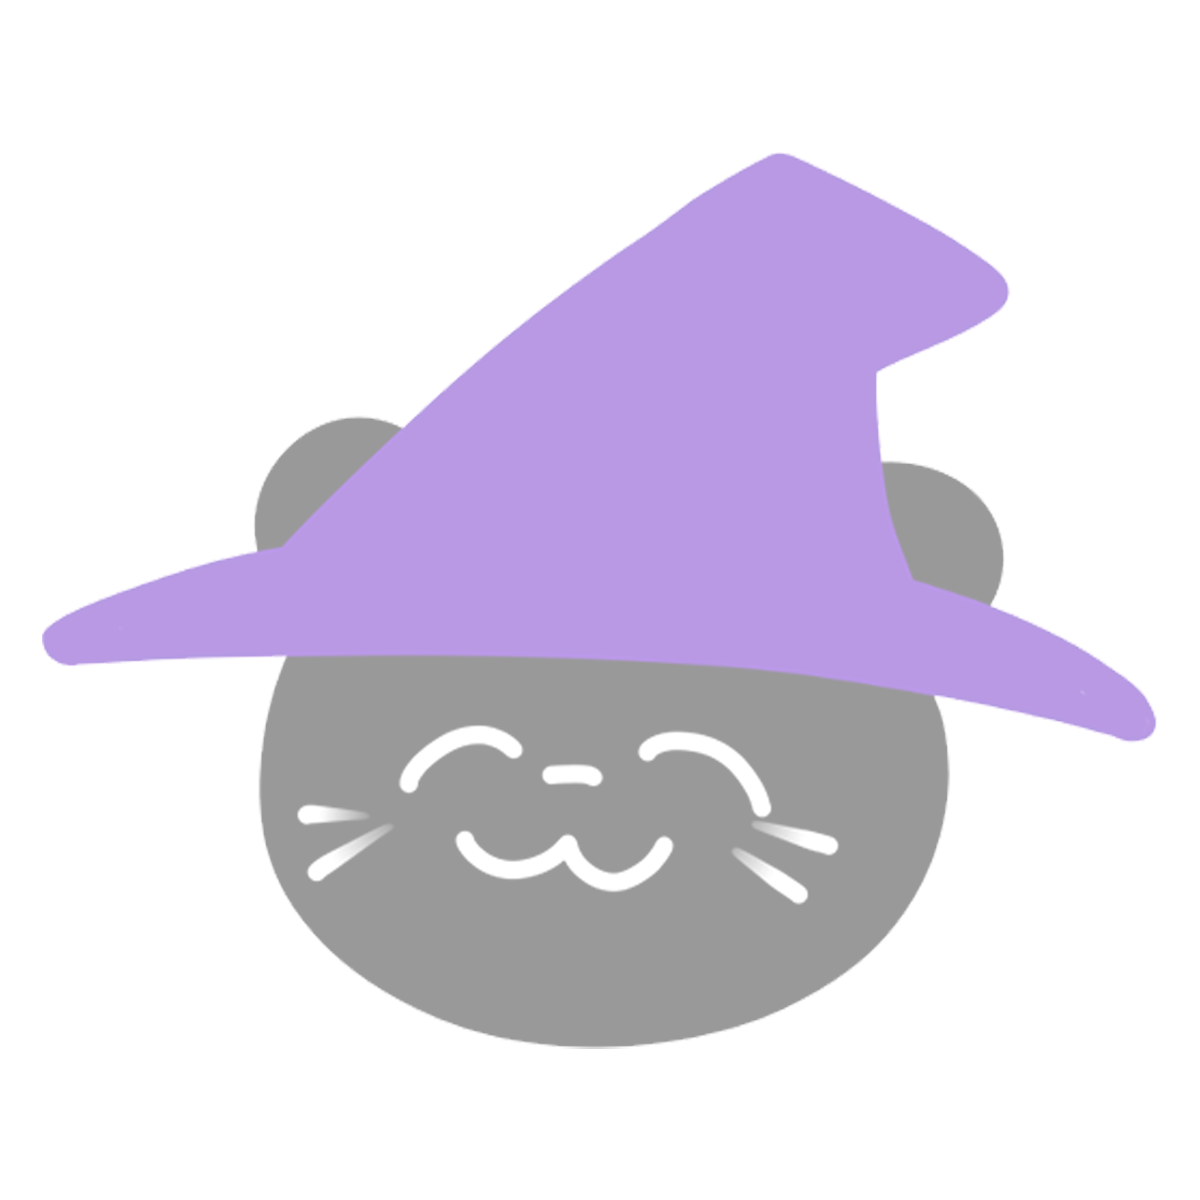
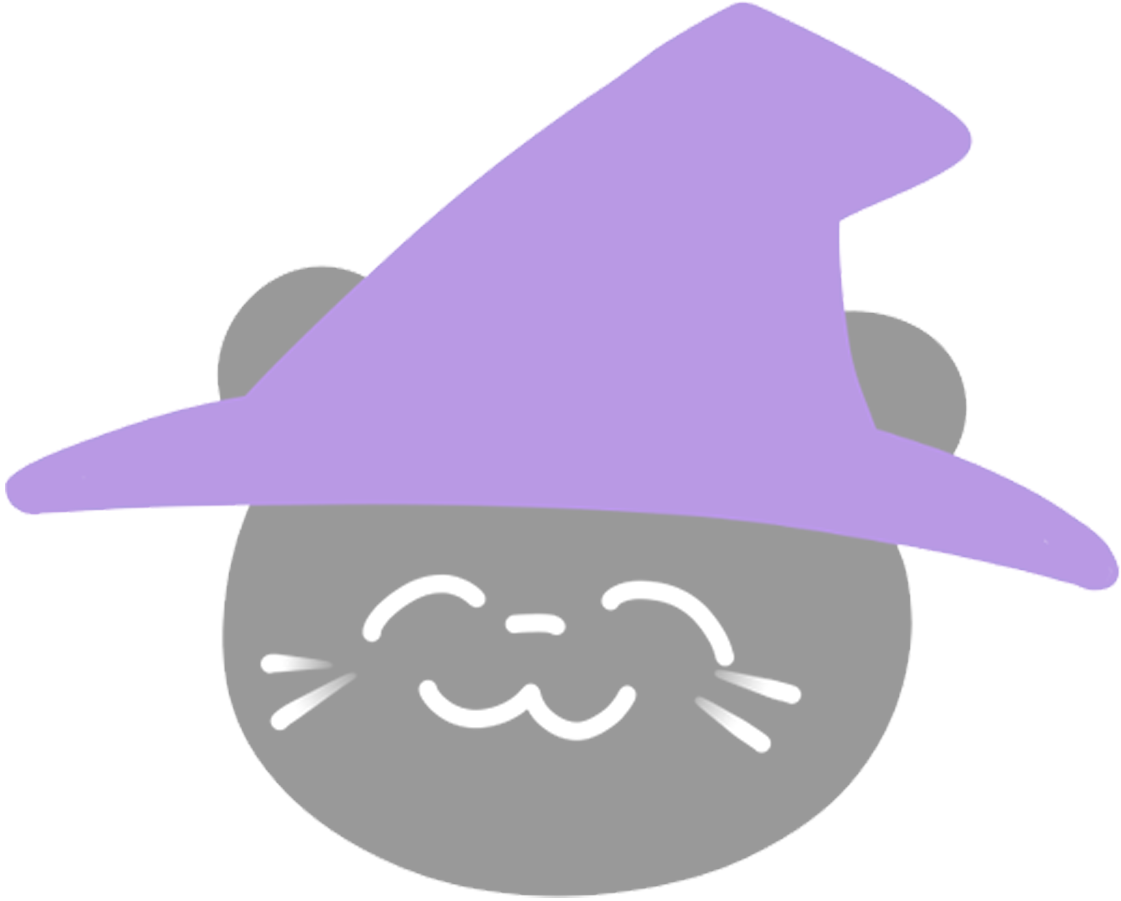
편지에 마법 부리는 페이지 추가

Changed region(s): [[0.0, 0.0, 0.9991, 1.0]]

diff --git a/cat-letter/src/pages/ConjureLetterPage/ConjureLetterPage.js b/cat-letter/src/pages/ConjureLetterPage/ConjureLetterPage.js
@@ -1,7 +1,7 @@
 import React from "react";
 import styled from "styled-components";
 import TitleText from "../../components/TitleText/TitleText";
-import LetterWrite from "../../components/LetterWrite/LetterWrite";
+import LetterConjure from "../../components/LetterConjure/LetterConjure";
 import NextButton from "../../components/NextButton/NextButton";
 
 const Wrapper = styled.div`
@@ -21,20 +21,20 @@ const ContentWrapper = styled.div`
   position: relative;
 `;
 
-const TypeLetterPage = () => {
+const ConjureLetterPage = () => {
   return (
     <Wrapper>
       <ContentWrapper>
-        <TitleText detailText={"표지는 앞에 고른 사진으로 보내질 예정이에요."}>
-          상대에게 보내고 싶은 말을 적어보세요!
+        <TitleText detailText={"뾰로롱~ 마법사가 편지에 마법을 부리고 있어요!"}>
+          마법으로 잠긴 편지를 공유해볼까요?
         </TitleText>
-        <LetterWrite />
-        <NextButton changePage={"/conjure_letter"}>
-          편지를 다 작성했어요!
+        <LetterConjure />
+        <NextButton changePage={"/share_letter"}>
+          네 좋아요! 공유해볼래요!
         </NextButton>
       </ContentWrapper>
     </Wrapper>
   );
 };
 
-export default TypeLetterPage;
+export default ConjureLetterPage;

diff --git a/cat-letter/src/pages/ShareLetterPage/ShareLetterPage.js b/cat-letter/src/pages/ShareLetterPage/ShareLetterPage.js
@@ -1,7 +1,7 @@
 import React from "react";
 import styled from "styled-components";
+import GoodWitch from "../../components/GoodWitch/GoodWitch";
 import TitleText from "../../components/TitleText/TitleText";
-import LetterWrite from "../../components/LetterWrite/LetterWrite";
 import NextButton from "../../components/NextButton/NextButton";
 
 const Wrapper = styled.div`
@@ -21,14 +21,15 @@ const ContentWrapper = styled.div`
   position: relative;
 `;
 
-const TypeLetterPage = () => {
+const ShareLetterPage = () => {
   return (
     <Wrapper>
       <ContentWrapper>
-        <TitleText detailText={"표지는 앞에 고른 사진으로 보내질 예정이에요."}>
-          상대에게 보내고 싶은 말을 적어보세요!
+        <GoodWitch />
+        <TitleText detailText={"따봉 마법사야 고마워!"}>
+          만들어진 편지를 공유해봐요.
         </TitleText>
-        <LetterWrite />
+        {/* <LetterWrite /> */}
         <NextButton changePage={"/conjure_letter"}>
           편지를 다 작성했어요!
         </NextButton>
@@ -37,4 +38,4 @@ const TypeLetterPage = () => {
   );
 };
 
-export default TypeLetterPage;
+export default ShareLetterPage;

diff --git a/cat-letter/src/components/App.js b/cat-letter/src/components/App.js
@@ -1,6 +1,11 @@
 import React from "react";
 import { Switch, Route } from "react-router-dom";
-import { ChooseTitlePage, TypeLetterPage } from "../pages/pages";
+import {
+  ChooseTitlePage,
+  TypeLetterPage,
+  ConjureLetterPage,
+  ShareLetterPage,
+} from "../pages/pages";
 import "./App.css";
 
 const App = () => {
@@ -9,6 +14,8 @@ const App = () => {
       <Switch>
         <Route exact path="/" component={ChooseTitlePage} />
         <Route exact path="/type_letter" component={TypeLetterPage} />
+        <Route exact path="/conjure_letter" component={ConjureLetterPage} />
+        <Route exact path="/share_letter" component={ShareLetterPage} />
       </Switch>
     </>
   );

diff --git a/cat-letter/src/components/LetterConjure/LetterConjure.js b/cat-letter/src/components/LetterConjure/LetterConjure.js
@@ -1,0 +1,23 @@
+import React from "react";
+import styled from "styled-components";
+import WitchCat from "../../static/Making/cat_witch.gif";
+
+const LetterConjureImgContainer = styled.div`
+  width: 80%;
+  margin: 0 auto;
+`;
+const LetterConjureImg = styled.img`
+  width: 100%;
+`;
+
+const LetterConjure = () => {
+  return (
+    <>
+      <LetterConjureImgContainer>
+        <LetterConjureImg src={WitchCat} />
+      </LetterConjureImgContainer>
+    </>
+  );
+};
+
+export default LetterConjure;

diff --git a/cat-letter/src/components/GoodWitch/GoodWitch.js b/cat-letter/src/components/GoodWitch/GoodWitch.js
@@ -1,0 +1,23 @@
+import React from "react";
+import styled from "styled-components";
+import ThankYouWitch from "../../static/Result/good_witch.png";
+
+const GoodWitchImgContainer = styled.div`
+  width: 20%;
+  margin: 0 auto;
+`;
+const GoodWitchImg = styled.img`
+  width: 100%;
+`;
+
+const GoodWitch = () => {
+  return (
+    <>
+      <GoodWitchImgContainer>
+        <GoodWitchImg src={ThankYouWitch} />
+      </GoodWitchImgContainer>
+    </>
+  );
+};
+
+export default GoodWitch;

diff --git a/cat-letter/src/pages/pages.js b/cat-letter/src/pages/pages.js
@@ -3,3 +3,9 @@ export { default as ChooseTitlePage } from "./ChooseTitlePage/ChooseTitlePage";
 
 // 내용 작성 페이지
 export { default as TypeLetterPage } from "./TypeLetterPage/TypeLetterPage";
+
+// 편지 마법 페이지
+export { default as ConjureLetterPage } from "./ConjureLetterPage/ConjureLetterPage";
+
+// 편지 공유 페이지
+export { default as ShareLetterPage } from "./ShareLetterPage/ShareLetterPage";

diff --git a/cat-letter/src/pages/ChooseTitlePage/ChooseTitlePage.js b/cat-letter/src/pages/ChooseTitlePage/ChooseTitlePage.js
@@ -25,7 +25,7 @@ const ChooseTitlePage = () => {
     <Wrapper>
       <ContentWrapper>
         <ChooseTitle></ChooseTitle>
-        <NextButton changePage={"/type_letter"}>다음으로 넘어간다옹</NextButton>
+        <NextButton changePage={"/type_letter"}>표지를 다 골랐어요!</NextButton>
       </ContentWrapper>
     </Wrapper>
   );

diff --git a/cat-letter/src/components/App.css b/cat-letter/src/components/App.css
@@ -106,6 +106,7 @@ input,
 button {
   font-family: "Noto Sans KR", sans-serif;
   outline: none;
+  cursor: pointer;
 }
 a,
 label,
